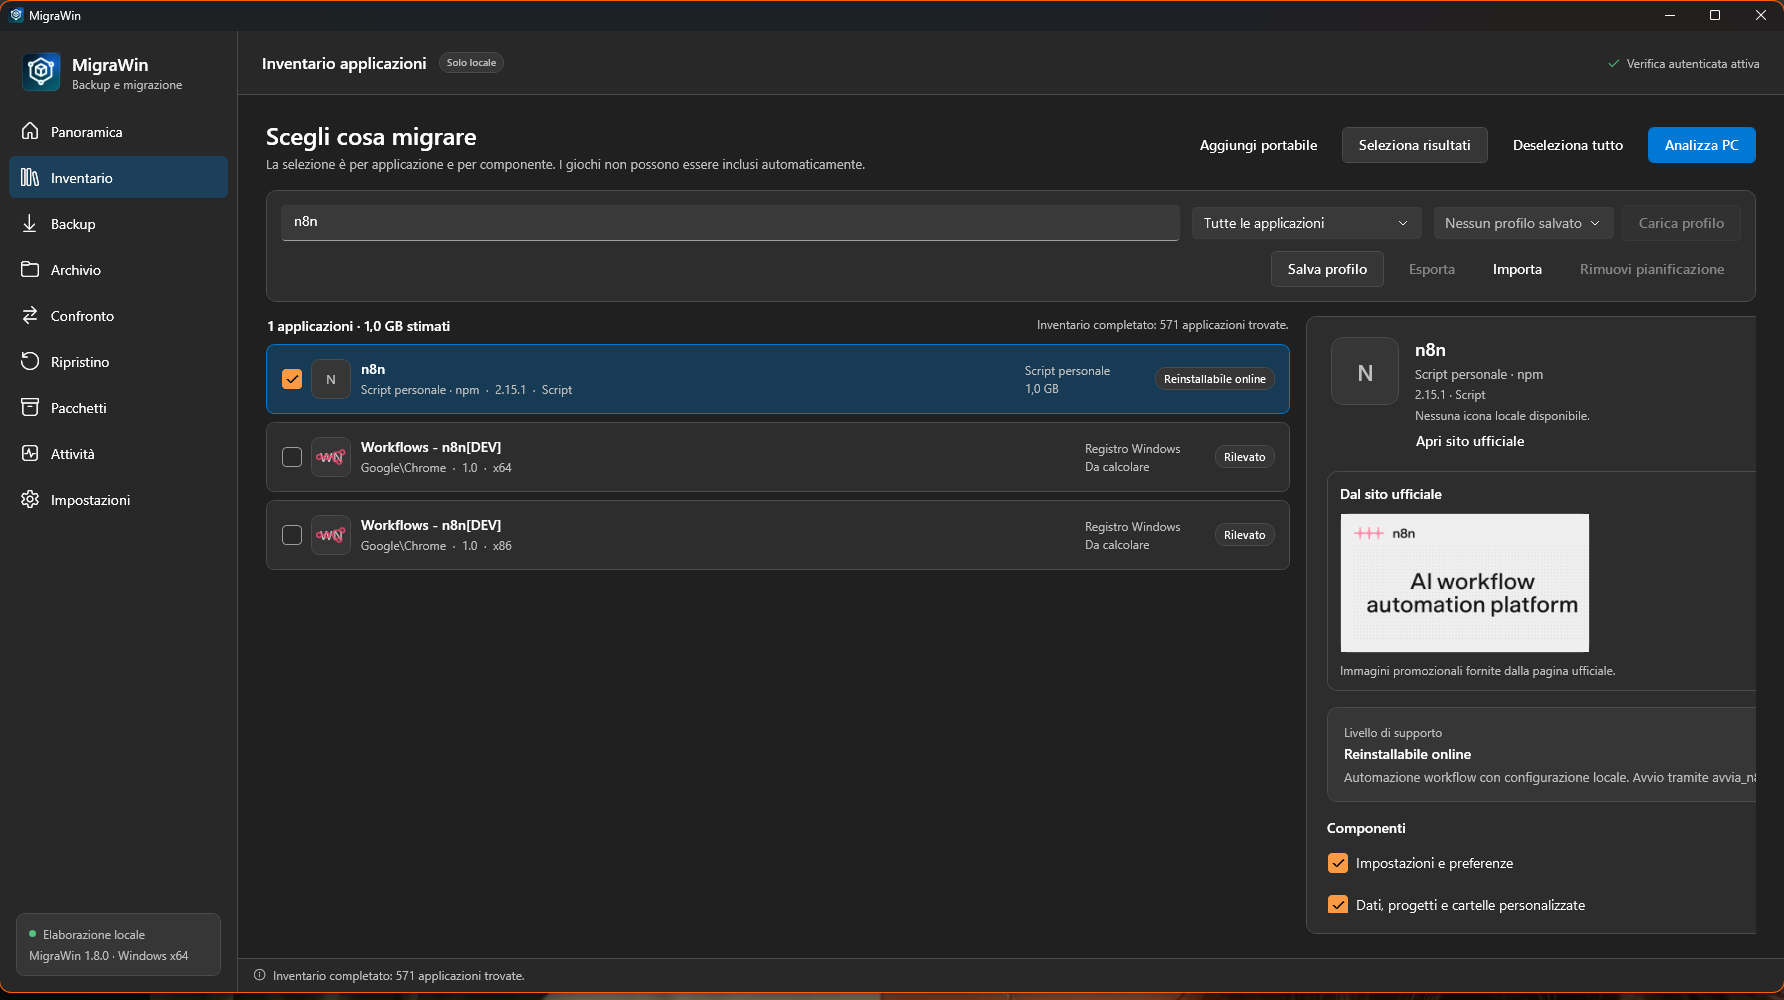
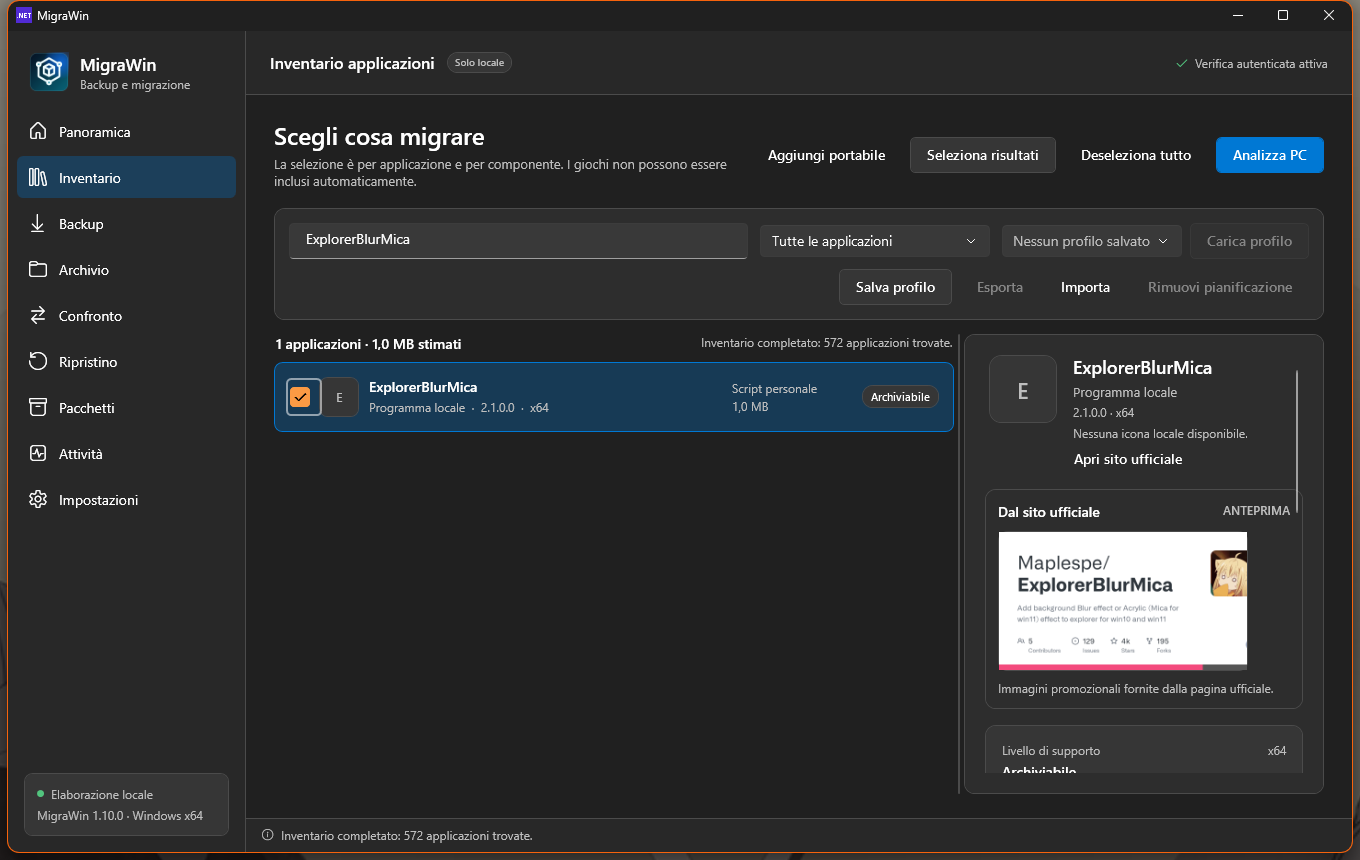
Fix resizable inventory details and add shell tools

Changed region(s): [[0.0, 0.0, 1.0, 1.0], [0.1544, 0.0605, 0.3706, 0.0907], [0.8647, 0.3326, 0.9265, 0.3628]]

diff --git a/src/MigraWin/Views/InventoryView.xaml b/src/MigraWin/Views/InventoryView.xaml
@@ -110,12 +110,12 @@
 
         <Grid Grid.Row="2">
             <Grid.ColumnDefinitions>
-                <ColumnDefinition Width="2.2*" />
-                <ColumnDefinition Width="16" />
-                <ColumnDefinition Width="1.2*" MinWidth="330" MaxWidth="450" />
+                <ColumnDefinition Width="*" MinWidth="320" />
+                <ColumnDefinition Width="10" />
+                <ColumnDefinition Width="360" MinWidth="280" MaxWidth="620" />
             </Grid.ColumnDefinitions>
 
-            <Grid>
+            <Grid Grid.Column="0" ClipToBounds="True">
                 <Grid.RowDefinitions>
                     <RowDefinition Height="Auto" />
                     <RowDefinition Height="*" />
@@ -131,6 +131,7 @@
                          ItemContainerStyle="{StaticResource AppListViewItem}"
                          BorderThickness="0" Background="Transparent"
                          ScrollViewer.HorizontalScrollBarVisibility="Disabled"
+                         SelectionChanged="ApplicationList_OnSelectionChanged"
                          VirtualizingPanel.IsVirtualizing="True"
                          VirtualizingPanel.VirtualizationMode="Recycling">
                     <ListBox.ItemTemplate>
@@ -187,7 +188,39 @@
                 </ListBox>
             </Grid>
 
-            <Border Grid.Column="2" Style="{StaticResource CardBorder}" Padding="20">
+            <GridSplitter Grid.Column="1"
+                          Width="10"
+                          HorizontalAlignment="Stretch"
+                          VerticalAlignment="Stretch"
+                          ResizeDirection="Columns"
+                          ResizeBehavior="PreviousAndNext"
+                          ShowsPreview="True"
+                          Cursor="SizeWE"
+                          Background="Transparent"
+                          AutomationProperties.Name="Ridimensiona pannello dettagli">
+                <GridSplitter.Template>
+                    <ControlTemplate TargetType="GridSplitter">
+                        <Grid Background="Transparent">
+                            <Border x:Name="SplitterRule" Width="2" CornerRadius="1"
+                                    HorizontalAlignment="Center"
+                                    Background="{DynamicResource AppStrokeBrush}" />
+                        </Grid>
+                        <ControlTemplate.Triggers>
+                            <Trigger Property="IsMouseOver" Value="True">
+                                <Setter TargetName="SplitterRule" Property="Background"
+                                        Value="{DynamicResource AppAccentBrush}" />
+                            </Trigger>
+                            <Trigger Property="IsKeyboardFocused" Value="True">
+                                <Setter TargetName="SplitterRule" Property="Background"
+                                        Value="{DynamicResource AppAccentBrush}" />
+                            </Trigger>
+                        </ControlTemplate.Triggers>
+                    </ControlTemplate>
+                </GridSplitter.Template>
+            </GridSplitter>
+
+            <Border Grid.Column="2" Style="{StaticResource CardBorder}" Padding="20"
+                    ClipToBounds="True">
                 <Grid>
                     <StackPanel Visibility="{Binding HasSelectedApplication, Converter={StaticResource InverseBoolToVisibility}}"
                                 VerticalAlignment="Center" HorizontalAlignment="Center" MaxWidth="270">
@@ -199,6 +232,7 @@
                                    Style="{StaticResource MutedText}" TextAlignment="Center" />
                     </StackPanel>
                     <ScrollViewer VerticalScrollBarVisibility="Auto"
+                                  HorizontalScrollBarVisibility="Disabled"
                                   Visibility="{Binding HasSelectedApplication, Converter={StaticResource BoolToVisibility}}">
                         <StackPanel>
                             <Grid Margin="0,0,0,16">

diff --git a/src/MigraWin/MainWindow.xaml b/src/MigraWin/MainWindow.xaml
@@ -152,11 +152,21 @@
                          IsIndeterminate="{Binding IsProgressIndeterminate}"
                          Visibility="{Binding IsBusy, Converter={StaticResource BoolToVisibility}}" />
 
-            <ScrollViewer Grid.Row="2"
-                          HorizontalScrollBarVisibility="Auto"
+            <ScrollViewer x:Name="PageScrollViewer"
+                          Grid.Row="2"
                           VerticalScrollBarVisibility="Disabled"
                           HorizontalContentAlignment="Stretch"
                           Background="{DynamicResource AppWindowBrush}">
+                <ScrollViewer.Style>
+                    <Style TargetType="ScrollViewer">
+                        <Setter Property="HorizontalScrollBarVisibility" Value="Auto" />
+                        <Style.Triggers>
+                            <DataTrigger Binding="{Binding IsInventoryPage}" Value="True">
+                                <Setter Property="HorizontalScrollBarVisibility" Value="Disabled" />
+                            </DataTrigger>
+                        </Style.Triggers>
+                    </Style>
+                </ScrollViewer.Style>
                 <Grid MinWidth="840">
                     <views:OverviewView Visibility="{Binding IsOverviewPage, Converter={StaticResource BoolToVisibility}}" />
                     <views:InventoryView Visibility="{Binding IsInventoryPage, Converter={StaticResource BoolToVisibility}}" />

diff --git a/tests/MigraWin.Tests/Program.cs b/tests/MigraWin.Tests/Program.cs
@@ -118,6 +118,7 @@ try
     Directory.CreateDirectory(Path.Combine(scriptHome, ".pi", "agent"));
     Directory.CreateDirectory(Path.Combine(scriptHome, ".codex", "proxy"));
     Directory.CreateDirectory(Path.Combine(scriptProgramFiles, "Nilesoft Shell", "imports", "scripts"));
+    Directory.CreateDirectory(Path.Combine(scriptProgramFiles, "Release"));
     Directory.CreateDirectory(Path.Combine(scriptAppData, "npm", "node_modules", "pm2"));
     Directory.CreateDirectory(Path.Combine(scriptAppData, "npm", "node_modules", "n8n"));
     Directory.CreateDirectory(Path.Combine(
@@ -138,6 +139,10 @@ try
     await File.WriteAllTextAsync(
         Path.Combine(scriptProgramFiles, "Nilesoft Shell", "imports", "scripts", "NewFolderWithSelection.ps1"),
         "param()");
+    await File.WriteAllTextAsync(
+        Path.Combine(scriptProgramFiles, "Release", "ExplorerBlurMica.dll"),
+        "fixture");
+    await File.WriteAllTextAsync(Path.Combine(scriptProgramFiles, "Release", "config.ini"), "[config]");
     foreach (var (package, version) in new[] { ("pm2", "6.0.0"), ("n8n", "2.0.0") })
     {
         await File.WriteAllTextAsync(
@@ -161,7 +166,16 @@ try
         AdapterCatalog.Apply(tool);
     }
 
-    Assert(new[] { "Enter for rename", "PM2", "n8n", "Pi Agent", "Proxy DeepSeek per Codex", "Custom tool" }
+    Assert(new[]
+            {
+                "Enter for rename · Nilesoft Shell",
+                "ExplorerBlurMica",
+                "PM2",
+                "n8n",
+                "Pi Agent",
+                "Proxy DeepSeek per Codex",
+                "Custom tool"
+            }
             .All(name => personalTools.Any(tool => tool.DisplayName == name)),
         "La scansione deve riconoscere gli strumenti personali noti e gli script nella home.");
     var n8nTool = personalTools.Single(tool => tool.DisplayName == "n8n");
@@ -179,6 +193,18 @@ try
         "n8n deve includere package, nodi personalizzati, workflow e stato PM2 nel piano di backup.");
     Assert(personalTools.All(tool => tool.Source == "Script personale"),
         "Gli strumenti personali devono essere distinti dalle applicazioni installate.");
+    Assert(personalTools.Single(tool => tool.DisplayName == "Enter for rename · Nilesoft Shell").HasSettings
+           && personalTools.Single(tool => tool.DisplayName == "ExplorerBlurMica").HasData,
+        "Nilesoft Shell e ExplorerBlurMica devono esporre configurazioni e file al backup.");
+    Assert(AdapterCatalog.GetSources(personalTools.Single(tool =>
+                tool.DisplayName == "Enter for rename · Nilesoft Shell"))
+            .Any(source => source.Includes?.Contains("imports/**") == true),
+        "Nilesoft Shell deve includere tutti i file della cartella imports.");
+    Assert(AdapterCatalog.GetSources(personalTools.Single(tool =>
+                tool.DisplayName == "ExplorerBlurMica"))
+            .Any(source => source.Root.EndsWith(@"\ExplorerBlurMica.dll",
+                StringComparison.OrdinalIgnoreCase)),
+        "ExplorerBlurMica.dll deve essere incluso tra i file personali.");
 
     var backup = new BackupService();
     var (manifest, recoveryKey) = await backup.CreateBackupAsync(

diff --git a/src/MigraWin/Services/PersonalScriptDiscoveryService.cs b/src/MigraWin/Services/PersonalScriptDiscoveryService.cs
@@ -81,6 +81,7 @@ public sealed class PersonalScriptDiscoveryService
             "https://github.com/earendil-works/pi",
             Path.Combine(_appData, "npm", "node_modules", "@earendil-works", "pi-coding-agent"));
         AddCodexProxy(applications, claimed);
+        AddExplorerBlurMica(applications);
         AddRootScripts(applications, claimed, cancellationToken);
 
         return applications
@@ -101,14 +102,36 @@ public sealed class PersonalScriptDiscoveryService
 
         var app = CreateApplication(
             "personal-enter-rename",
-            "Enter for rename",
+            "Enter for rename · Nilesoft Shell",
             "Script personale · Nilesoft Shell",
             "https://nilesoft.org/",
             string.Empty,
-            "Integrazione Esplora file per creare una cartella dalla selezione e avviarne la rinomina.",
+            "Configurazioni, menu e script Nilesoft Shell, inclusa la rinomina immediata della nuova cartella.",
             File.GetLastWriteTime(File.Exists(script) ? script : menu).ToString("dd/MM/yyyy"));
         applications.Add(app);
         ClaimFiles(claimed, script, menu, userShell);
+    }
+
+    private void AddExplorerBlurMica(List<InstalledApplication> applications)
+    {
+        var directory = Path.Combine(_programFiles, "Release");
+        var dll = Path.Combine(directory, "ExplorerBlurMica.dll");
+        if (!File.Exists(dll))
+        {
+            return;
+        }
+
+        var version = System.Diagnostics.FileVersionInfo.GetVersionInfo(dll).FileVersion?.Trim();
+        applications.Add(CreateApplication(
+            "personal-explorer-blur-mica",
+            "ExplorerBlurMica",
+            "Programma locale",
+            "https://github.com/Maplespe/ExplorerBlurMica",
+            string.Empty,
+            "Effetto Mica per Esplora file con configurazione e comandi di registrazione.",
+            string.IsNullOrWhiteSpace(version) ? "Locale" : version,
+            architecture: "x64",
+            estimatedSize: DirectorySize(directory)));
     }
 
     private void AddNpmTool(

diff --git a/src/MigraWin/Services/AdapterCatalog.cs b/src/MigraWin/Services/AdapterCatalog.cs
@@ -59,10 +59,11 @@ public static partial class AdapterCatalog
             "https://www.sublimetext.com/download",
             [new(@"%APPDATA%\Sublime Text\Packages\User", ["**"])],
             []),
-        new("personal-enter-rename", "Enter for rename", @"^Enter for rename(?:\s|$)",
+        new("personal-enter-rename", "Enter for rename · Nilesoft Shell",
+            @"^Enter for rename · Nilesoft Shell(?:\s|$)",
             "https://nilesoft.org/",
-            [new(@"%ProgramFiles%\Nilesoft Shell\imports\file-manage.nss"),
-             new(@"%ProgramFiles%\Nilesoft Shell\imports\scripts\NewFolderWithSelection.ps1"),
+            [new(@"%ProgramFiles%\Nilesoft Shell",
+                 ["*.nss", "*.nss backup*", "imports/**"]),
              new(@"%USERPROFILE%\shell.nss")],
             []),
         new("personal-pm2", "PM2", @"^PM2(?:\s|$)",
@@ -108,6 +109,13 @@ public static partial class AdapterCatalog
              new(@"%USERPROFILE%\.codex\proxy\lmstudio-generated.json"),
              new(@"%USERPROFILE%\.codex\proxy\lmstudio-map.json"),
              new(@"%USERPROFILE%\.codex\deepseek.config.toml", null, true)],
+            SupportLevel.Archivable),
+        new("personal-explorer-blur-mica", "ExplorerBlurMica", @"^ExplorerBlurMica(?:\s|$)",
+            "https://github.com/Maplespe/ExplorerBlurMica",
+            [new(@"%ProgramFiles%\Release\config.ini")],
+            [new(@"%ProgramFiles%\Release\ExplorerBlurMica.dll"),
+             new(@"%ProgramFiles%\Release\register.cmd"),
+             new(@"%ProgramFiles%\Release\uninstall.cmd")],
             SupportLevel.Archivable),
     ];
 

diff --git a/src/MigraWin/Views/InventoryView.xaml.cs b/src/MigraWin/Views/InventoryView.xaml.cs
@@ -1,8 +1,29 @@
+using System.Windows;
 using System.Windows.Controls;
+using System.Windows.Media;
+using System.Windows.Threading;
 
 namespace MigraWin.Views;
 
 public partial class InventoryView : UserControl
 {
     public InventoryView() => InitializeComponent();
+
+    private void ApplicationList_OnSelectionChanged(object sender, SelectionChangedEventArgs e)
+    {
+        Dispatcher.BeginInvoke(() =>
+        {
+            DependencyObject? current = this;
+            while (current is not null)
+            {
+                if (current is ScrollViewer { HorizontalScrollBarVisibility: ScrollBarVisibility.Auto } scroller)
+                {
+                    scroller.ScrollToHorizontalOffset(0);
+                    break;
+                }
+
+                current = VisualTreeHelper.GetParent(current);
+            }
+        }, DispatcherPriority.ContextIdle);
+    }
 }

diff --git a/README.md b/README.md
@@ -6,7 +6,7 @@
 
 [![Windows CI](https://github.com/renegadeFree/MigraWin/actions/workflows/ci.yml/badge.svg)](https://github.com/renegadeFree/MigraWin/actions/workflows/ci.yml)
 
-[Scarica MigraWin 1.9.0](https://github.com/renegadeFree/MigraWin/releases/download/v1.9.0/MigraWin-1.9.0-x64.msi) · [Manuale](docs/MANUALE.md) · [Formato archivio](docs/REPOSITORY_FORMAT.md) · [Tutte le release](https://github.com/renegadeFree/MigraWin/releases)
+[Scarica MigraWin 1.10.0](https://github.com/renegadeFree/MigraWin/releases/download/v1.10.0/MigraWin-1.10.0-x64.msi) · [Manuale](docs/MANUALE.md) · [Formato archivio](docs/REPOSITORY_FORMAT.md) · [Tutte le release](https://github.com/renegadeFree/MigraWin/releases)
 
 [![Panoramica di MigraWin](docs/images/panoramica.png)](docs/images/panoramica.png)
 
@@ -52,7 +52,7 @@ Cerca per nome, produttore o versione e riconosci ogni applicazione dalla sua ic
 
 [![Inventario applicazioni in MigraWin](docs/images/inventario.png)](docs/images/inventario.png)
 
-Il filtro **Script personali** raccoglie gli script eseguiti dalla cartella utente e gli strumenti locali riconosciuti, tra cui Enter for rename, PM2, n8n, Pi Agent e il proxy DeepSeek per Codex.
+Il filtro **Script personali** raccoglie gli script eseguiti dalla cartella utente e gli strumenti locali riconosciuti, tra cui Nilesoft Shell, ExplorerBlurMica, PM2, n8n, Pi Agent e il proxy DeepSeek per Codex. Nel pannello destro puoi trascinare il separatore verticale per ampliare o ridurre i dettagli.
 
 ### Backup leggibile prima di essere avviato
 
@@ -94,20 +94,20 @@ La lingua si cambia da **Impostazioni → Lingua** e viene applicata immediatame
 
 Requisiti: **Windows 11 x64**.
 
-1. Scarica [MigraWin 1.9.0 x64](https://github.com/renegadeFree/MigraWin/releases/download/v1.9.0/MigraWin-1.9.0-x64.msi).
+1. Scarica [MigraWin 1.10.0 x64](https://github.com/renegadeFree/MigraWin/releases/download/v1.10.0/MigraWin-1.10.0-x64.msi).
 2. Apri l'MSI. L'installazione avviene per l'utente corrente e non richiede privilegi amministrativi; crea i collegamenti nel menu Start e sul Desktop.
 3. Avvia MigraWin dal menu Start.
 
 Puoi verificare il download:
 
 ```powershell
-Get-FileHash .\MigraWin-1.9.0-x64.msi -Algorithm SHA256
+Get-FileHash .\MigraWin-1.10.0-x64.msi -Algorithm SHA256
 ```
 
-Hash SHA-256 della release 1.9.0:
+Hash SHA-256 della release 1.10.0:
 
 ```text
[1 lines of base64/hex data omitted]
+Il valore aggiornato è pubblicato anche in SHA256SUMS.txt nella release.
 ```
 
 > **Nota sulla firma digitale:** la release corrente non ha una firma Authenticode di distribuzione. Windows può quindi mostrare un avviso SmartScreen. La pipeline di firma è pronta e viene attivata quando è disponibile un certificato valido.
@@ -144,7 +144,7 @@ La voce **n8n** include l'installazione npm attiva, i wrapper CLI, database e fi
 - Sono fuori perimetro WSL, container Docker e macchine virtuali.
 - Windows 10 e Windows ARM64 non sono dichiarati supportati.
 - La scansione automatica degli script copre la radice del profilo e gli strumenti noti, non ogni progetto annidato nel disco.
-- La release 1.9.0 non è firmata con un certificato Authenticode.
+- La release 1.10.0 non è firmata con un certificato Authenticode.
 
 ## Sviluppo e collaudo
 

diff --git a/docs/MANUALE.md b/docs/MANUALE.md
@@ -30,6 +30,10 @@ Quando MigraWin dispone di una pagina ufficiale o di una scheda Microsoft Store,
 
 Per n8n arresta il servizio prima del backup, così il database e i file WAL vengono copiati in uno stato coerente. PM2, n8n e Pi Agent includono i file di configurazione necessari; credenziali e configurazioni sensibili restano soggette alla selezione esplicita descritta sotto.
 
+Nel pannello Inventario puoi trascinare il separatore verticale tra elenco e dettagli, oppure selezionarlo da tastiera e usare i tasti freccia. La larghezza viene mantenuta tra 280 e 620 pixel.
+
+**Nilesoft Shell** comprende `shell.nss`, i relativi backup, tutti i file `.nss` in `imports` e gli script in `imports\scripts`. **ExplorerBlurMica** comprende `ExplorerBlurMica.dll`, `config.ini`, `register.cmd` e `uninstall.cmd` dalla cartella `C:\Program Files\Release`.
+
 ### n8n, nodi e PM2
 
 Con n8n selezionato, il backup comprende:

diff --git a/PLAN.md b/PLAN.md
@@ -63,6 +63,10 @@ Realizzare un'applicazione Windows installabile per inventariare il software, se
 - [x] I predefiniti vengono applicati alle nuove scansioni e ai programmi portabili, con salvataggio JSON atomico.
 - [x] Aggiunta la scelta della lingua con 11 localizzazioni e cambio immediato a runtime.
 - [x] Persistita la lingua in `settings.json` e aggiunto fallback inglese per i testi tecnici.
+- [x] Aggiunto separatore accessibile per ridimensionare il pannello dettagli tra 280 e 620 pixel.
+- [x] Corretto lo scorrimento orizzontale che tagliava il riquadro selezionato e i suoi angoli.
+- [x] Nilesoft Shell include tutti i file `.nss`, backup e script in `imports`.
+- [x] ExplorerBlurMica include DLL, configurazione e comandi di registrazione.
 
 ## Collaudi eseguiti
 

diff --git a/CHANGELOG.md b/CHANGELOG.md
@@ -1,5 +1,12 @@
 # Changelog
 
+## 1.10.0 — 24 ottobre 2026
+
+- aggiunto un separatore accessibile per ridimensionare il pannello dettagli;
+- corretto lo scorrimento orizzontale che tagliava il pannello quando si selezionava un programma;
+- Nilesoft Shell include tutti i file `.nss`, i backup e i contenuti di `imports`;
+- aggiunto ExplorerBlurMica con DLL, configurazione e comandi di registrazione.
+
 ## 1.9.0 — 24 ottobre 2026
 
 - aggiunta la scelta della lingua con applicazione immediata e persistenza locale;
